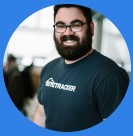
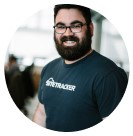
images

diff --git a/dashboardmedia.css b/dashboardmedia.css
@@ -25,6 +25,9 @@
       .logo1 .texth5  {
         margin-top:10px;
       }
+      .logo1 .header-img {
+        width:30%;
+      }
       .texth5{
           background: linear-gradient( #24ef8d, #09a1f9);
           -webkit-background-clip: text;
@@ -40,7 +43,7 @@
         margin-bottom:22px
       }
       .header-img {
-        width: 30%;
+        width: 20%;
       }
       .menu-button{
       
@@ -50,7 +53,7 @@
         overflow-y: scroll;
       }
       .nav-header .open-icon {
-        font-size: 30px;
+        font-size: 22px;
         padding-right: 8px;
       
       }
